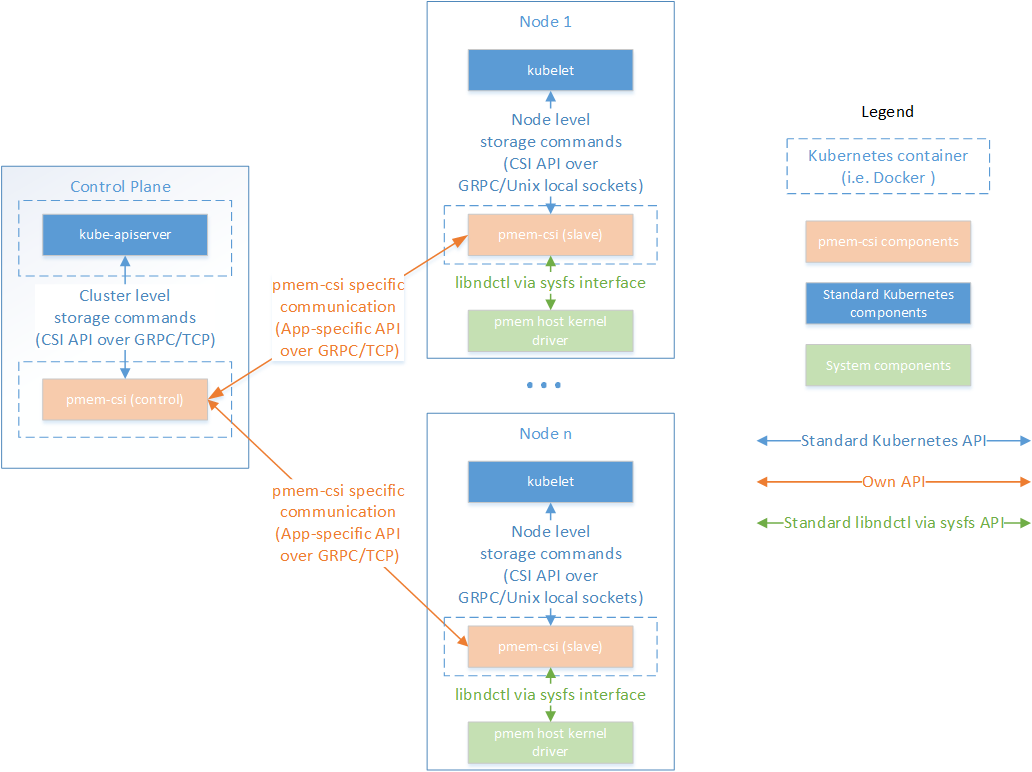
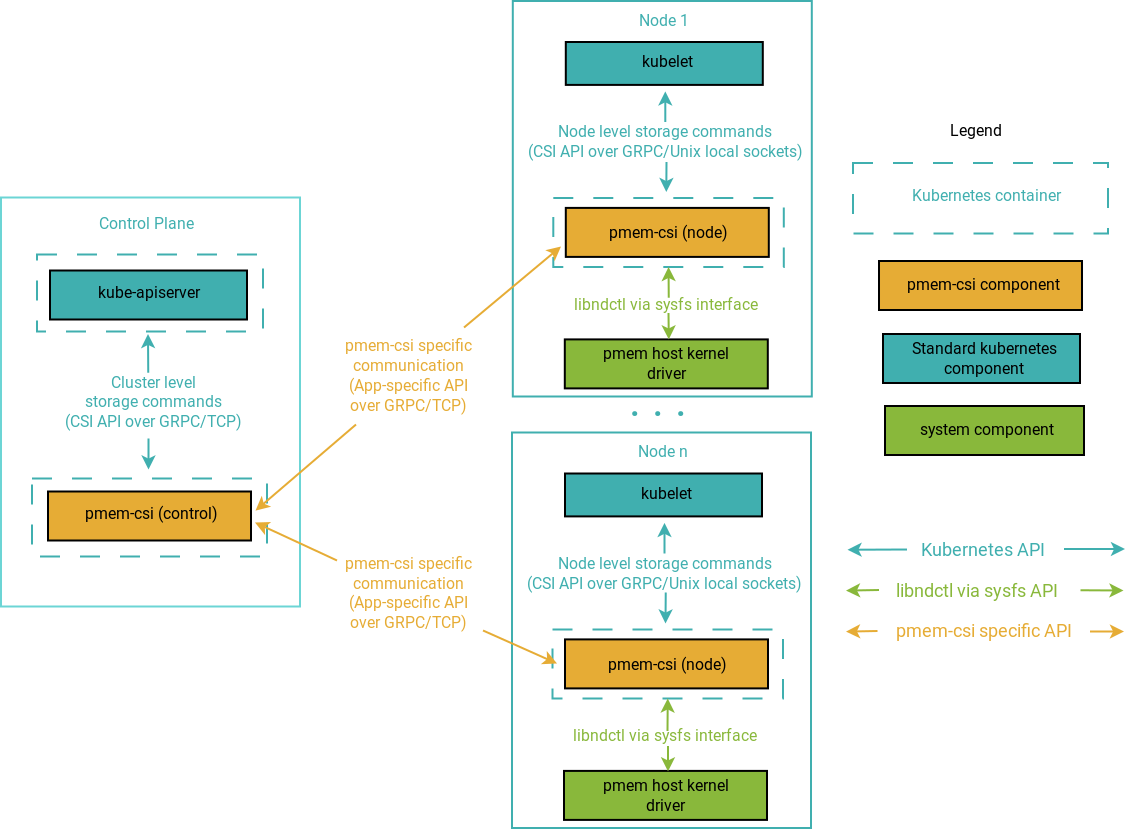
Re-created comms diagram in README using dia
to get source managed in the repo.
The png image has been recreated from new source.

diff --git a/DEVELOPMENT.md b/DEVELOPMENT.md
@@ -228,7 +228,7 @@ which are not hand-edited
 
 Top-level README diagrams describing LVM and Direct device modes
 ----------------------------------------------------------------
-Two diagrams are created using the [_dia_ drawing program](https://en.wikipedia.org/wiki/Dia_(software)).
+Two diagrams are created with [_dia_ drawing program](https://en.wikipedia.org/wiki/Dia_(software)).
 The [single source file](/docs/diagrams/pmem-csi.dia) has
 layers: {common, lvm, direct} so that two diagram variants can be produced from single source.
 Image files are produced by saving in PNG format with correct set of layers visible.
@@ -236,9 +236,10 @@ The PNG files are committed as repository elements in docs/images/devicemodes/.
 
 Top-level README diagram describing communication channels
 ----------------------------------------------------------
-This diagram was created using the [_dia_ drawing program](https://en.wikipedia.org/wiki/Dia_(software)).
+This diagram was created with the [_dia_ drawing program](https://en.wikipedia.org/wiki/Dia_(software)) using [source file](/docs/diagrams/pmem-csi-communication-diagram.dia).
+
 Image file is produced by saving in PNG format.
-The PNG file is committed as repository elements in docs/images/communication/.
+The PNG file is committed as a [repository element](/docs/images/communication/pmem-csi-communication-diagram.png).
 
 Diagrams describing provisioning sequence
 -----------------------------------------
